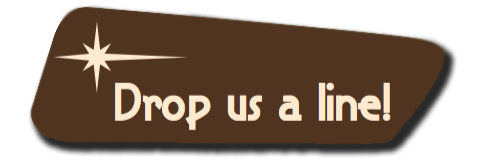
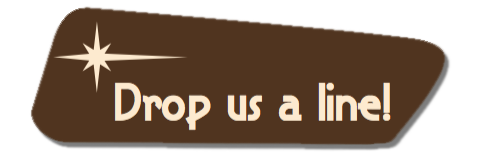
image better on contact

Changed region(s): [[0.0609, 0.0303, 0.9432, 0.9697], [0.0913, 0.1515, 0.1217, 0.3939], [0.1217, 0.0606, 0.1521, 0.1515]]

diff --git a/hales/style.css b/hales/style.css
@@ -2409,3 +2409,10 @@ h1.logo{
 	background-color: #f0dfb4 ;
 	color: #be1e2d;
 }
+
+
+#drop-us{
+	height: 150px;
+	float: left;
+	margin-top: -23px;
+	margin-left: 61px;}

diff --git a/hales/page.php b/hales/page.php
@@ -83,7 +83,9 @@ get_header(); ?>
 		</div>
  			<input type="button" name="Submit" value=""> -->
 
-    <img id="drop" src="<?php echo(get_template_directory_uri()); ?>/images/dropusaline.png" alt="" />  
+    <img id="drop-us" src="<?php echo(get_template_directory_uri()); ?>/images/dropusaline.png" alt="" />
+
+    <div id="love-to"><span class="love-to">"We’d love to hear from you!</span> <span class="fill-out">Fill out this form and we will get back to you.</span></div> 
 
 			<?php wd_contact_form_builder(2); ?>
 
